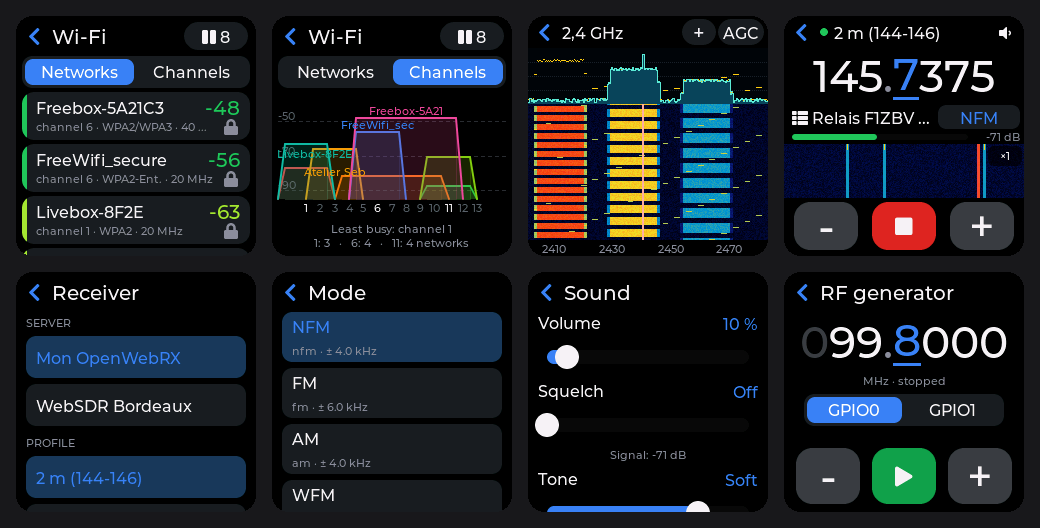
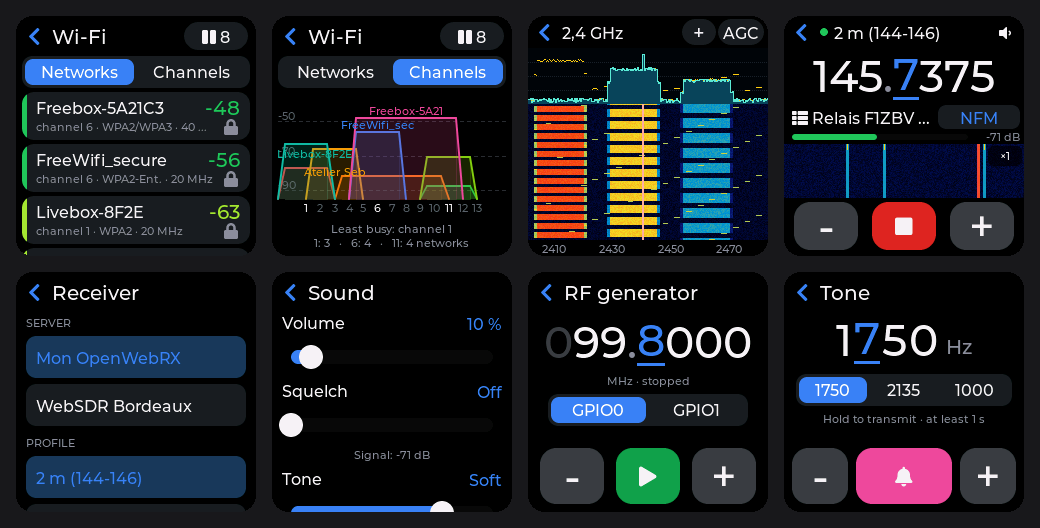
0.24.0 : app Tone (tonalité d'ouverture de relais, 1750 Hz par défaut)
Claude-Session: https://claude.ai/code/session_01Nqsr6dMwaT8y4hmR3wyTbr

diff --git a/main/app_tone.c b/main/app_tone.c
@@ -1,0 +1,268 @@
+/*
+ * app_tone.c — « Tone » : tonalité d'ouverture de relais (1750 Hz par défaut)
+ * sur le haut-parleur, à approcher du micro du poste.
+ *
+ *   ‹ Tone
+ *         1750            fréquence en Hz : toucher un chiffre = pas de − / +
+ *          Hz
+ *   [ 1750 | 2135 | 1000 ]  préréglages
+ *    [ − ]  [  ((•))  ]  [ + ]   maintenir le bouton central pour émettre
+ *
+ * Un appui bref émet quand même TONE_MIN_MS (salve). Sinusoïde à 16 kHz avec
+ * montée et descente de 5 ms (pas de clic), générée par une petite tâche qui
+ * alimente le flux I2S de sound.c.
+ */
+#include <math.h>
+#include <stdio.h>
+#include "app.h"
+#include "ui_kit.h"
+#include "i18n.h"
+#include "sound.h"
+#include "nvs.h"
+#include "freertos/FreeRTOS.h"
+#include "freertos/task.h"
+#include "esp_timer.h"
+
+#define RATE        16000
+#define CHUNK       160                 /* 10 ms */
+#define FADE        (RATE * 5 / 1000)   /* 5 ms */
+#define TONE_MIN_MS 1000                /* durée minimale d'une salve */
+#define F_MIN       100
+#define F_MAX       4000
+#define F_DEF       1750
+#define NDIG        4
+#define AMP         26000.0f            /* ≈ -2 dBFS : fort, sans saturer l'ampli */
+
+static const uint16_t PRESET[] = { 1750, 2135, 1000 };
+static const int W[NDIG] = { 1000, 100, 10, 1 };
+
+static int s_f = F_DEF;
+static int s_dig = 1;                   /* pas : 100 Hz */
+static volatile bool s_hold;            /* bouton enfoncé */
+static volatile int64_t s_until;        /* fin minimale de la salve (µs) */
+static volatile bool s_task;            /* tâche d'émission en cours */
+static bool s_loaded;
+
+static lv_obj_t *v_dig[NDIG], *v_seg, *v_btn, *v_btn_lbl, *v_hint;
+
+/* ------------------------------------------------------------------ */
+static void load(void)
+{
+    if (s_loaded) return;
+    s_loaded = true;
+    nvs_handle_t h;
+    if (nvs_open("tone", NVS_READONLY, &h) != ESP_OK) return;
+    uint16_t f;
+    if (nvs_get_u16(h, "f", &f) == ESP_OK && f >= F_MIN && f <= F_MAX) s_f = f;
+    nvs_close(h);
+}
+
+static void save(void)
+{
+    nvs_handle_t h;
+    if (nvs_open("tone", NVS_READWRITE, &h) != ESP_OK) return;
+    uint16_t old = 0;
+    if (nvs_get_u16(h, "f", &old) != ESP_OK || old != s_f) {
+        nvs_set_u16(h, "f", (uint16_t)s_f);
+        nvs_commit(h);
+    }
+    nvs_close(h);
+}
+
+/* ------------------------------------------------------------------ */
+static void tone_task(void *arg)
+{
+    int16_t buf[CHUNK];
+    do {                                  /* rappuyé pendant la fermeture : on repart */
+        if (sound_stream_open(RATE) != ESP_OK) break;
+        float ph = 0, env = 0;
+        const float dEnv = 1.0f / FADE;
+        for (;;) {
+            bool on = s_hold || esp_timer_get_time() < s_until;
+            float dph = 2.0f * (float)M_PI * s_f / RATE;     /* fréquence modifiable en direct */
+            for (int i = 0; i < CHUNK; i++) {
+                env += on ? dEnv : -dEnv;
+                if (env > 1) env = 1;
+                if (env < 0) env = 0;
+                buf[i] = (int16_t)(AMP * env * sinf(ph));
+                ph += dph;
+                if (ph > 2 * (float)M_PI) ph -= 2 * (float)M_PI;
+            }
+            sound_stream_write(buf, CHUNK, 4096);
+            if (!on && env <= 0) break;
+        }
+        sound_stream_write(NULL, CHUNK * 4, 0);          /* silence : vide le DMA */
+        sound_stream_close();
+    } while (s_hold);
+    s_task = false;
+    vTaskDelete(NULL);
+}
+
+static void tone_on(void)
+{
+    s_hold = true;
+    s_until = esp_timer_get_time() + TONE_MIN_MS * 1000LL;
+    if (!s_task) {
+        s_task = true;
+        if (xTaskCreatePinnedToCore(tone_task, "tone", 3072, NULL, 6, NULL, 1) != pdPASS) s_task = false;
+    }
+}
+
+static void tone_off(void) { s_hold = false; }
+
+/* ------------------------------------------------------------------ */
+static void refresh(void)
+{
+    if (!v_dig[0]) return;
+    int f = s_f;
+    bool lead = true;
+    for (int i = 0; i < NDIG; i++) {
+        int d = (f / W[i]) % 10;
+        char c[2] = { (char)('0' + d), 0 };
+        lv_label_set_text(v_dig[i], c);
+        bool zero = lead && d == 0 && i < NDIG - 1;
+        if (!zero) lead = false;
+        lv_color_t col = i == s_dig ? C_ACC : zero ? lv_color_hex(0x3A3F47) : C_FG;
+        lv_obj_set_style_text_color(v_dig[i], col, 0);
+        lv_obj_set_style_border_width(v_dig[i], i == s_dig ? 3 : 0, 0);
+    }
+    for (int i = 0; i < (int)(sizeof PRESET / sizeof PRESET[0]); i++) {
+        if (PRESET[i] == s_f) lv_buttonmatrix_set_button_ctrl(v_seg, i, LV_BUTTONMATRIX_CTRL_CHECKED);
+        else lv_buttonmatrix_clear_button_ctrl(v_seg, i, LV_BUTTONMATRIX_CTRL_CHECKED);
+    }
+}
+
+static void btn_look(bool on)
+{
+    lv_obj_set_style_bg_color(v_btn, on ? lv_color_hex(0xDC2626) : lv_color_hex(0xEC4899), 0);
+}
+
+static void change(int dir)
+{
+    int f = s_f + dir * W[s_dig];
+    if (f < F_MIN) f = F_MIN;
+    if (f > F_MAX) f = F_MAX;
+    s_f = f;
+    refresh();
+}
+
+static void minus_cb(lv_event_t *e) { change(-1); }
+static void plus_cb(lv_event_t *e)  { change(+1); }
+
+static void dig_cb(lv_event_t *e)
+{
+    s_dig = (int)(intptr_t)lv_event_get_user_data(e);
+    refresh();
+}
+
+static void seg_cb(lv_event_t *e)
+{
+    int p = (int)lv_buttonmatrix_get_selected_button(v_seg);
+    if (p < 0 || p >= (int)(sizeof PRESET / sizeof PRESET[0])) return;
+    s_f = PRESET[p];
+    refresh();
+}
+
+/* bouton d'émission : appuyé = tonalité, relâché = fin (après la salve
+ * minimale) ; on ne le laisse pas partir en geste de retour */
+static void tx_cb(lv_event_t *e)
+{
+    lv_event_code_t c = lv_event_get_code(e);
+    if (c == LV_EVENT_PRESSED) { tone_on(); btn_look(true); }
+    else if (c == LV_EVENT_RELEASED || c == LV_EVENT_PRESS_LOST) { tone_off(); btn_look(false); }
+}
+
+static lv_obj_t *round_btn(lv_obj_t *scr, const char *txt, lv_event_cb_t cb, lv_color_t bg, int x, int w)
+{
+    lv_obj_t *b = lv_button_create(scr);
+    lv_obj_set_size(b, w, 56);
+    lv_obj_align(b, LV_ALIGN_BOTTOM_MID, x, -8);
+    lv_obj_set_style_radius(b, 16, 0);
+    lv_obj_set_style_shadow_width(b, 0, 0);
+    lv_obj_set_style_bg_color(b, bg, 0);
+    if (cb) {
+        lv_obj_add_event_cb(b, cb, LV_EVENT_CLICKED, NULL);
+        lv_obj_add_event_cb(b, cb, LV_EVENT_LONG_PRESSED_REPEAT, NULL);
+    }
+    ui_bubble(b);
+    lv_obj_t *l = ui_label(b, txt[0] == '+' || txt[0] == '-' ? &font_num_44 : &font_title_20, C_FG, txt);
+    lv_obj_center(l);
+    return b;
+}
+
+static void create(lv_obj_t *scr)
+{
+    load();
+    int y = ui_header(scr, "Tone");
+
+    lv_obj_t *row = lv_obj_create(scr);
+    lv_obj_remove_style_all(row);
+    lv_obj_set_size(row, 236, 56);
+    lv_obj_align(row, LV_ALIGN_TOP_MID, 0, y);
+    lv_obj_set_flex_flow(row, LV_FLEX_FLOW_ROW);
+    lv_obj_set_flex_align(row, LV_FLEX_ALIGN_CENTER, LV_FLEX_ALIGN_CENTER, LV_FLEX_ALIGN_CENTER);
+    lv_obj_set_style_pad_column(row, 2, 0);
+    ui_bubble(row);
+    for (int i = 0; i < NDIG; i++) {
+        v_dig[i] = ui_label(row, &font_num_44, C_FG, "0");
+        lv_obj_set_style_border_side(v_dig[i], LV_BORDER_SIDE_BOTTOM, 0);
+        lv_obj_set_style_border_color(v_dig[i], C_ACC, 0);
+        lv_obj_add_flag(v_dig[i], LV_OBJ_FLAG_CLICKABLE);
+        lv_obj_set_ext_click_area(v_dig[i], 6);
+        lv_obj_add_event_cb(v_dig[i], dig_cb, LV_EVENT_CLICKED, (void *)(intptr_t)i);
+        ui_bubble(v_dig[i]);
+    }
+    lv_obj_t *hz = ui_label(row, &font_title_20, C_DIM, "Hz");
+    lv_obj_set_style_pad_left(hz, 6, 0);
+    lv_obj_set_style_pad_top(hz, 14, 0);
+
+    static const char *map[] = { "1750", "2135", "1000", "" };
+    v_seg = ui_segmented(scr, map, seg_cb);
+    lv_obj_set_size(v_seg, 216, 32);
+    lv_obj_align(v_seg, LV_ALIGN_TOP_MID, 0, y + 62);
+
+    v_hint = ui_label(scr, &font_small_11, C_DIM, _("Maintenir pour émettre · 1 s au moins"));
+    lv_obj_align(v_hint, LV_ALIGN_TOP_MID, 0, y + 100);
+
+    round_btn(scr, "-", minus_cb, C_OFF, -84, 56);
+    v_btn = round_btn(scr, LV_SYMBOL_BELL, NULL, lv_color_hex(0xEC4899), 0, 96);
+    v_btn_lbl = lv_obj_get_child(v_btn, 0);
+    lv_obj_add_event_cb(v_btn, tx_cb, LV_EVENT_PRESSED, NULL);
+    lv_obj_add_event_cb(v_btn, tx_cb, LV_EVENT_RELEASED, NULL);
+    lv_obj_add_event_cb(v_btn, tx_cb, LV_EVENT_PRESS_LOST, NULL);
+    lv_obj_remove_flag(v_btn, LV_OBJ_FLAG_GESTURE_BUBBLE);
+    round_btn(scr, "+", plus_cb, C_OFF, 84, 56);
+    refresh();
+}
+
+static void destroy(void)
+{
+    tone_off();
+    s_until = 0;
+    save();
+    for (int i = 0; i < NDIG; i++) v_dig[i] = NULL;
+    v_seg = v_btn = v_btn_lbl = v_hint = NULL;
+}
+
+static void on_show(void) { refresh(); }
+
+static void on_hide(void)
+{
+    tone_off();                         /* écran éteint ou sortie : plus de son */
+    s_until = 0;
+    if (v_btn) btn_look(false);
+    save();
+}
+
+static bool busy(void) { return s_task; }
+
+const app_t app_tone = {
+    .name = "Tone",
+    .icon = LV_SYMBOL_BELL,
+    .color = 0xEC4899,
+    .create = create,
+    .destroy = destroy,
+    .on_show = on_show,
+    .on_hide = on_hide,
+    .busy = busy,
+};

diff --git a/main/apps.c b/main/apps.c
@@ -13,6 +13,7 @@ extern const app_t app_rfgen;
 extern const app_t app_wifi;
 extern const app_t app_sdr;
 extern const app_t app_webrx;
+extern const app_t app_tone;
 #ifndef TW_NO_TVOFF
 extern const app_t app_tvoff;          /* codes TV-B-Gone, CC BY-SA 4.0 */
 #endif
@@ -27,6 +28,7 @@ const app_t *const g_apps[] = {
     &app_wifi,
     &app_sdr,
     &app_webrx,
+    &app_tone,
     &app_rfgen,
 };
 const int g_app_count = sizeof(g_apps) / sizeof(g_apps[0]);

diff --git a/main/i18n.c b/main/i18n.c
@@ -292,6 +292,7 @@ static const tr_t EN[] = {
     { "Douce", "Soft" },
     { "Sourde", "Muffled" },
     { "Tonalité : vers la droite, moins d'aigus et de souffle, plus de corps aux voix.", "Tone: to the right, less treble and hiss, fuller voices." },
+    { "Maintenir pour émettre · 1 s au moins", "Hold to transmit · at least 1 s" },
 };
 
 static int s_lang = LANG_FR;

diff --git a/README.fr.md b/README.fr.md
@@ -43,7 +43,9 @@ Priorités, dans l'ordre : **stabilité**, **autonomie**, **finition**.
   ±10 MHz, marqueur, maintien de crête), **WebRX** (écoute de tes récepteurs OpenWebRX /
   OpenWebRX+ par le Wi-Fi, `https` compris, sur le haut-parleur de la montre : jusqu'à 4
   serveurs, profils, signets, modes du serveur, squelch, tonalité en 5 paliers, S-mètre et
-  mini-waterfall ; continue écran éteint — voir le [guide WebRX](docs/fr/webrx.md)),
+  mini-waterfall ; continue écran éteint — voir le [guide WebRX](docs/fr/webrx.md)), **Tone** (tonalité
+  d'ouverture de relais sur le haut-parleur, 1750 Hz par défaut, réglable de 100 à 4000 Hz avec
+  préréglages : maintenir pour émettre, 1 s au moins),
   *Porteuse* (signal HF de test en carré, 5 à 125 MHz,
   issu de la PLL audio de l'ESP32) et *TV off* (éteint la plupart des téléviseurs par la LED
   infrarouge, codes Europe/USA). Une app ouverte garde la main : l'écran s'éteint dessus et
@@ -77,7 +79,7 @@ de 380 mAh en bon état.
 |---|---|---|
 | Cadran | glisser ↑ | Notifications (refermer : ↓ ou →) |
 | Cadran | glisser ↓ | Contrôles rapides (refermer : ↑ ou →) |
-| Cadran | glisser ← | Apps : Lecture, Chrono, Minuteur, Lampe, TV off, Wi-Fi, SDR, WebRX, Porteuse, Énergie, Réglages |
+| Cadran | glisser ← | Apps : Lecture, Chrono, Minuteur, Lampe, TV off, Wi-Fi, SDR, WebRX, Tone, Porteuse, Énergie, Réglages |
 | Cadran | appui long | Choix du cadran |
 | Partout ailleurs | glisser → ou « ‹ » | Retour à l'écran d'où l'on vient |
 | Écran éteint | double tap | Réveil (sur la dernière notif non vue en mode discret) |

diff --git a/README.md b/README.md
@@ -40,7 +40,8 @@ Priorities, in order: **stability**, **battery life**, **finish**.
   your OpenWebRX / OpenWebRX+ receivers over Wi-Fi, `https` included, on the watch speaker:
   up to 4 servers, profiles, bookmarks, the server's own modes, squelch, 5-step tone,
   S-meter and mini waterfall; keeps playing with the screen off — see the
-  [WebRX guide](docs/en/webrx.md)), *Carrier* (square-wave RF test signal, 5–125 MHz, from the ESP32 audio PLL) and
+  [WebRX guide](docs/en/webrx.md)), **Tone** (repeater access tone on the speaker, 1750 Hz by
+  default, adjustable 100–4000 Hz with presets: hold to transmit, at least 1 s), *Carrier* (square-wave RF test signal, 5–125 MHz, from the ESP32 audio PLL) and
   *TV off* (switches off most TVs through the IR LED, Europe/USA code sets). An open app stays
   put: the screen turns off on it and wakes back to it. A small app framework lets you add
   one in a single file.
@@ -69,7 +70,7 @@ Priorities, in order: **stability**, **battery life**, **finish**.
 |---|---|---|
 | Watch face | swipe ↑ | Notifications (close: ↓ or →) |
 | Watch face | swipe ↓ | Quick controls (close: ↑ or →) |
-| Watch face | swipe ← | Apps: Now playing, Stopwatch, Timer, Torch, TV off, Wi-Fi, SDR, WebRX, Carrier, Battery, Settings |
+| Watch face | swipe ← | Apps: Now playing, Stopwatch, Timer, Torch, TV off, Wi-Fi, SDR, WebRX, Tone, Carrier, Battery, Settings |
 | Watch face | long press | Choose the watch face |
 | Anywhere else | swipe → or « ‹ » | Back to where you came from |
 | Screen off | double tap | Wake up (on the last unseen notification in silent mode) |

diff --git a/CHANGELOG.md b/CHANGELOG.md
@@ -2,6 +2,14 @@
 
 All notable changes. Versions follow `PROJECT_VER` in `CMakeLists.txt`.
 
+## 0.24.0 — 2026-11-13
+
+- New **Tone** app: repeater access tone on the speaker, 1750 Hz by default (presets 1750,
+  2135, 1000 Hz; any frequency from 100 to 4000 Hz with the digit editor, remembered). Hold
+  the button to transmit; a short tap still sends a 1 s burst. Clean sine at 16 kHz with
+  5 ms fade in/out (no click), loud but below clipping.
+- Documentation: Tone in the READMEs and in the radio apps screenshots.
+
 ## 0.23.1 — 2026-11-13
 
 - WebRX: some profiles could not be selected. OpenWebRX+ identifies SDRs and profiles by

diff --git a/docs/fr/webrx.md b/docs/fr/webrx.md
@@ -6,7 +6,7 @@ WebRX relie la montre à l'un de tes récepteurs **OpenWebRX** ou **OpenWebRX+**
 (`https://` ou `http://`), joue l'audio démodulé sur le haut-parleur de la montre et affiche la
 fréquence, un S-mètre et une petite waterfall.
 
-![WebRX et les autres apps radio](../img/radio-fr.png)
+![WebRX et les autres apps radio (Wi-Fi, SDR, Porteuse, Tone)](../img/radio-fr.png)
 
 ## Réglages (une fois, depuis le téléphone)
 

diff --git a/docs/en/webrx.md b/docs/en/webrx.md
@@ -6,7 +6,7 @@ WebRX connects the watch to one of your **OpenWebRX** or **OpenWebRX+** receiver
 (`https://` or `http://`), plays the demodulated audio on the watch speaker and shows the
 frequency, an S-meter and a small waterfall.
 
-![WebRX and the other radio apps](../img/radio-en.png)
+![WebRX and the other radio apps (Wi-Fi, SDR, Carrier, Tone)](../img/radio-en.png)
 
 ## Setting up (once, from the phone)
 
